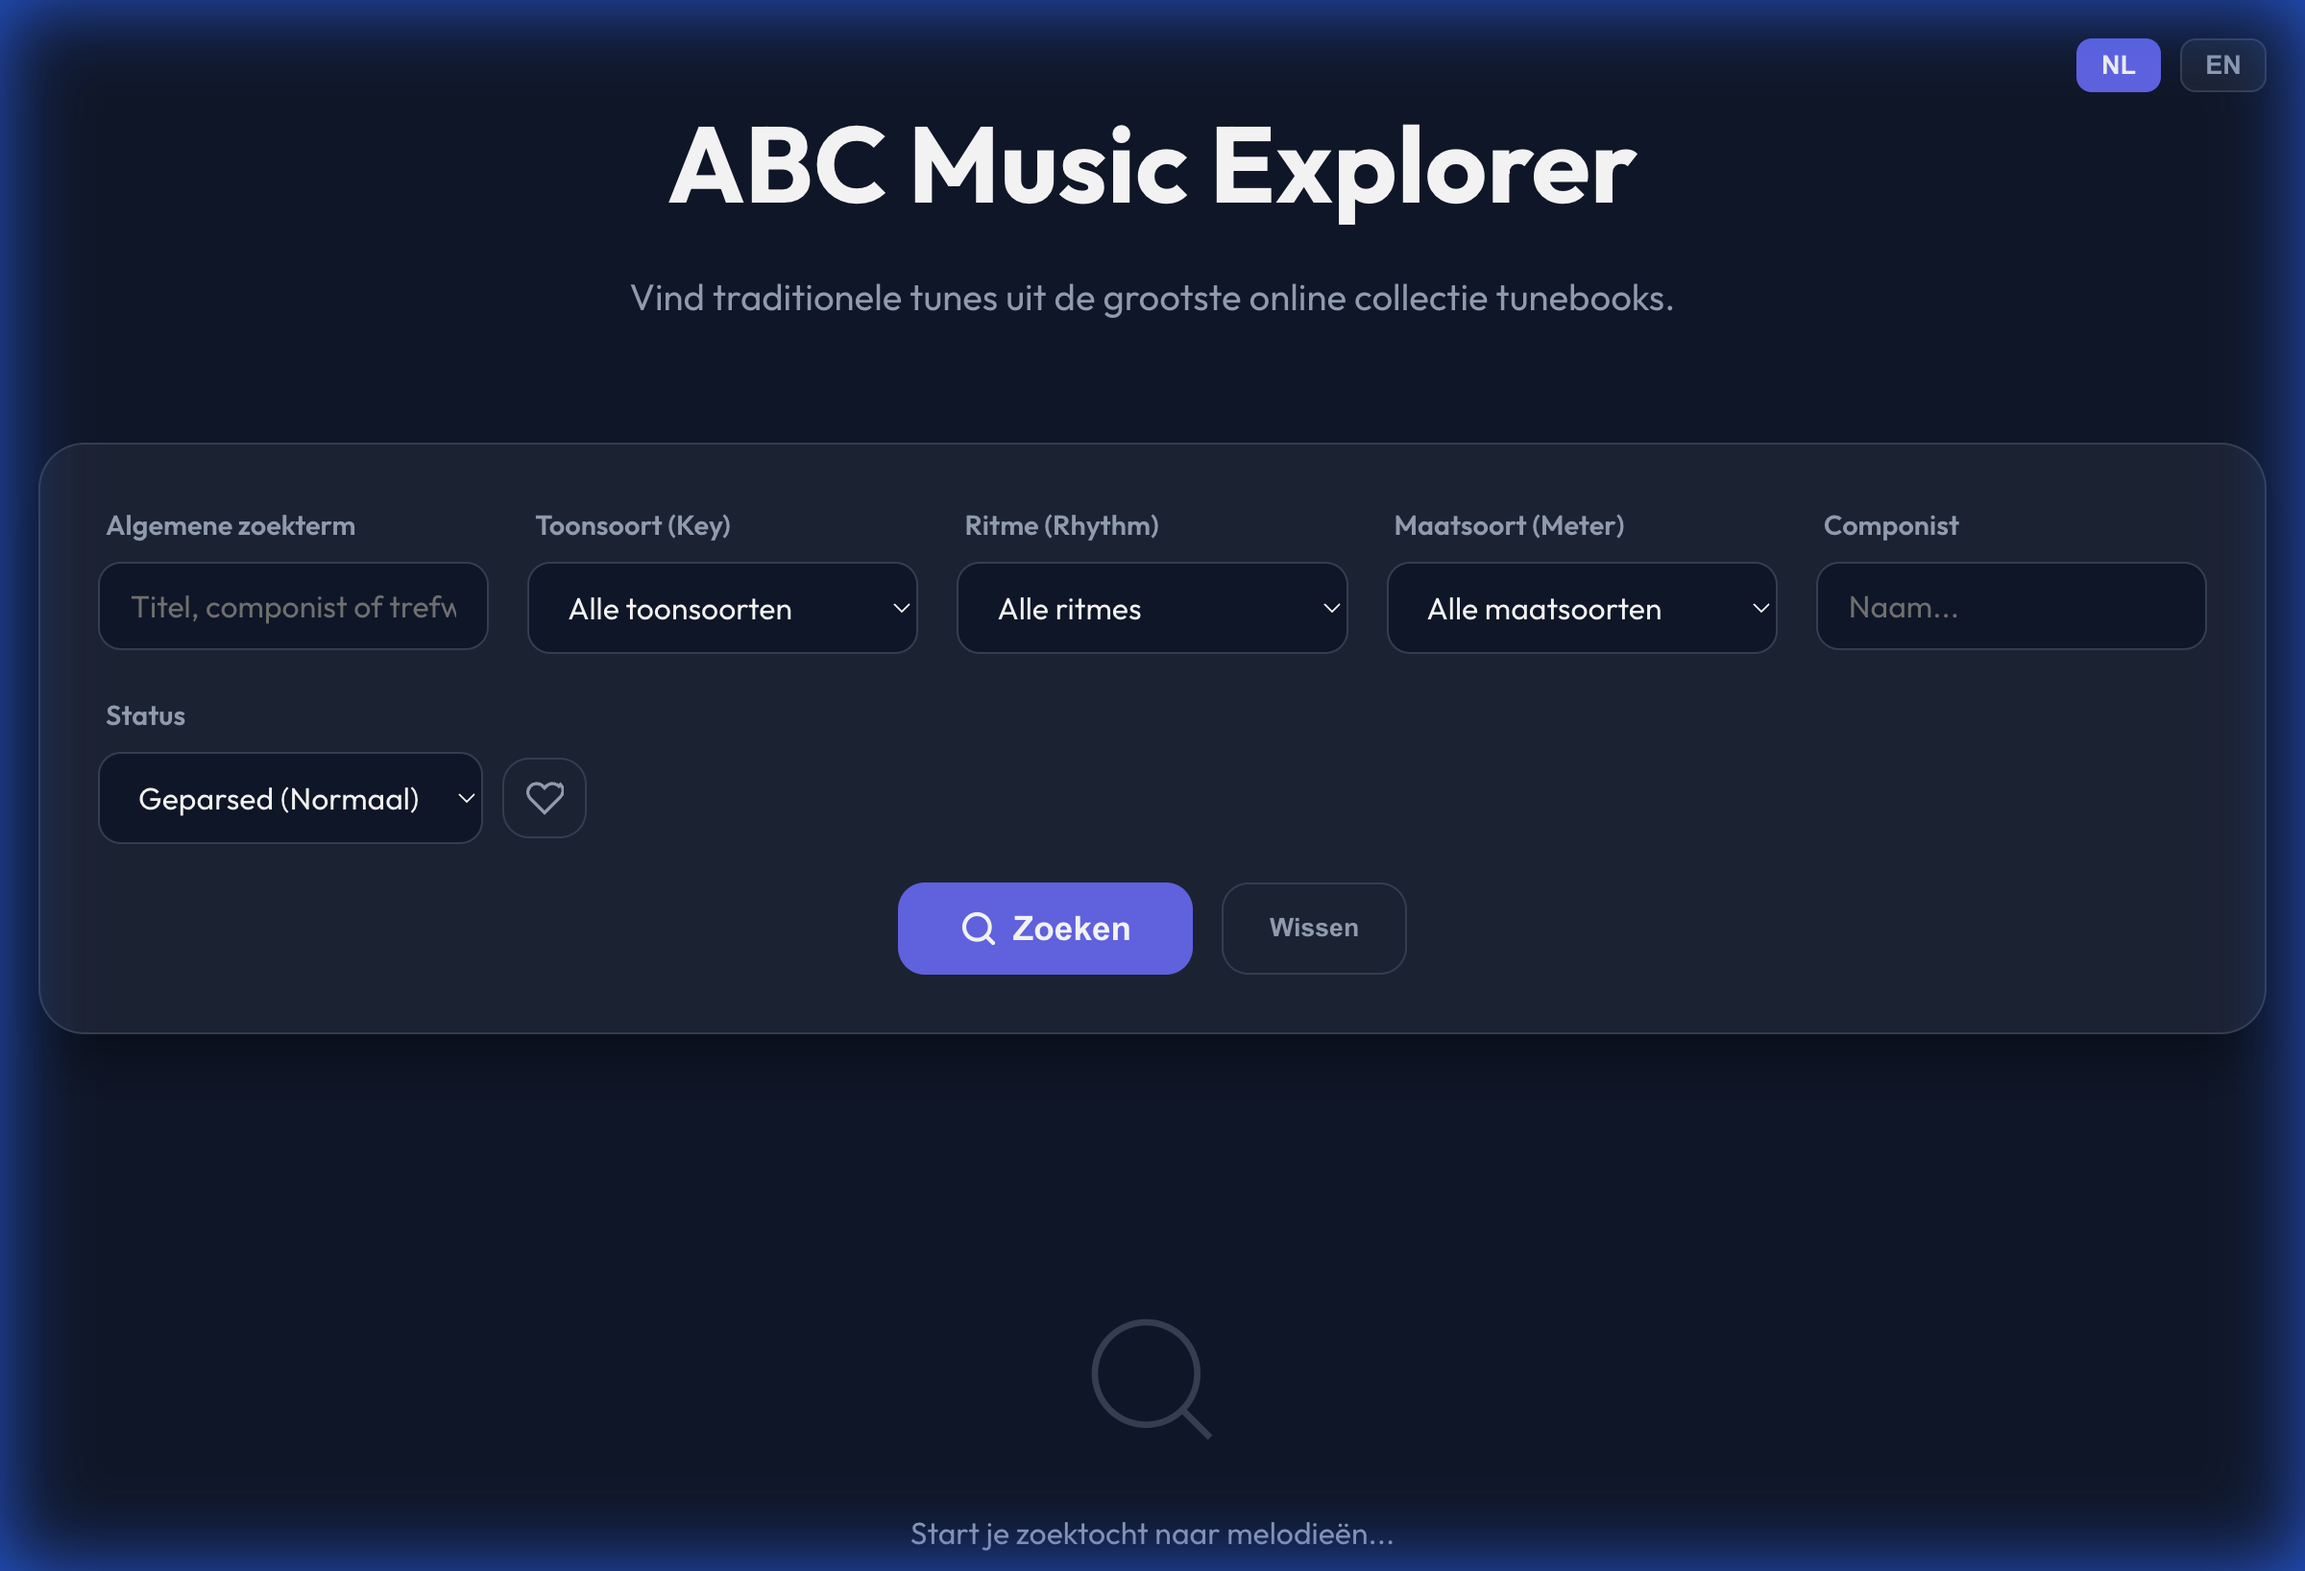
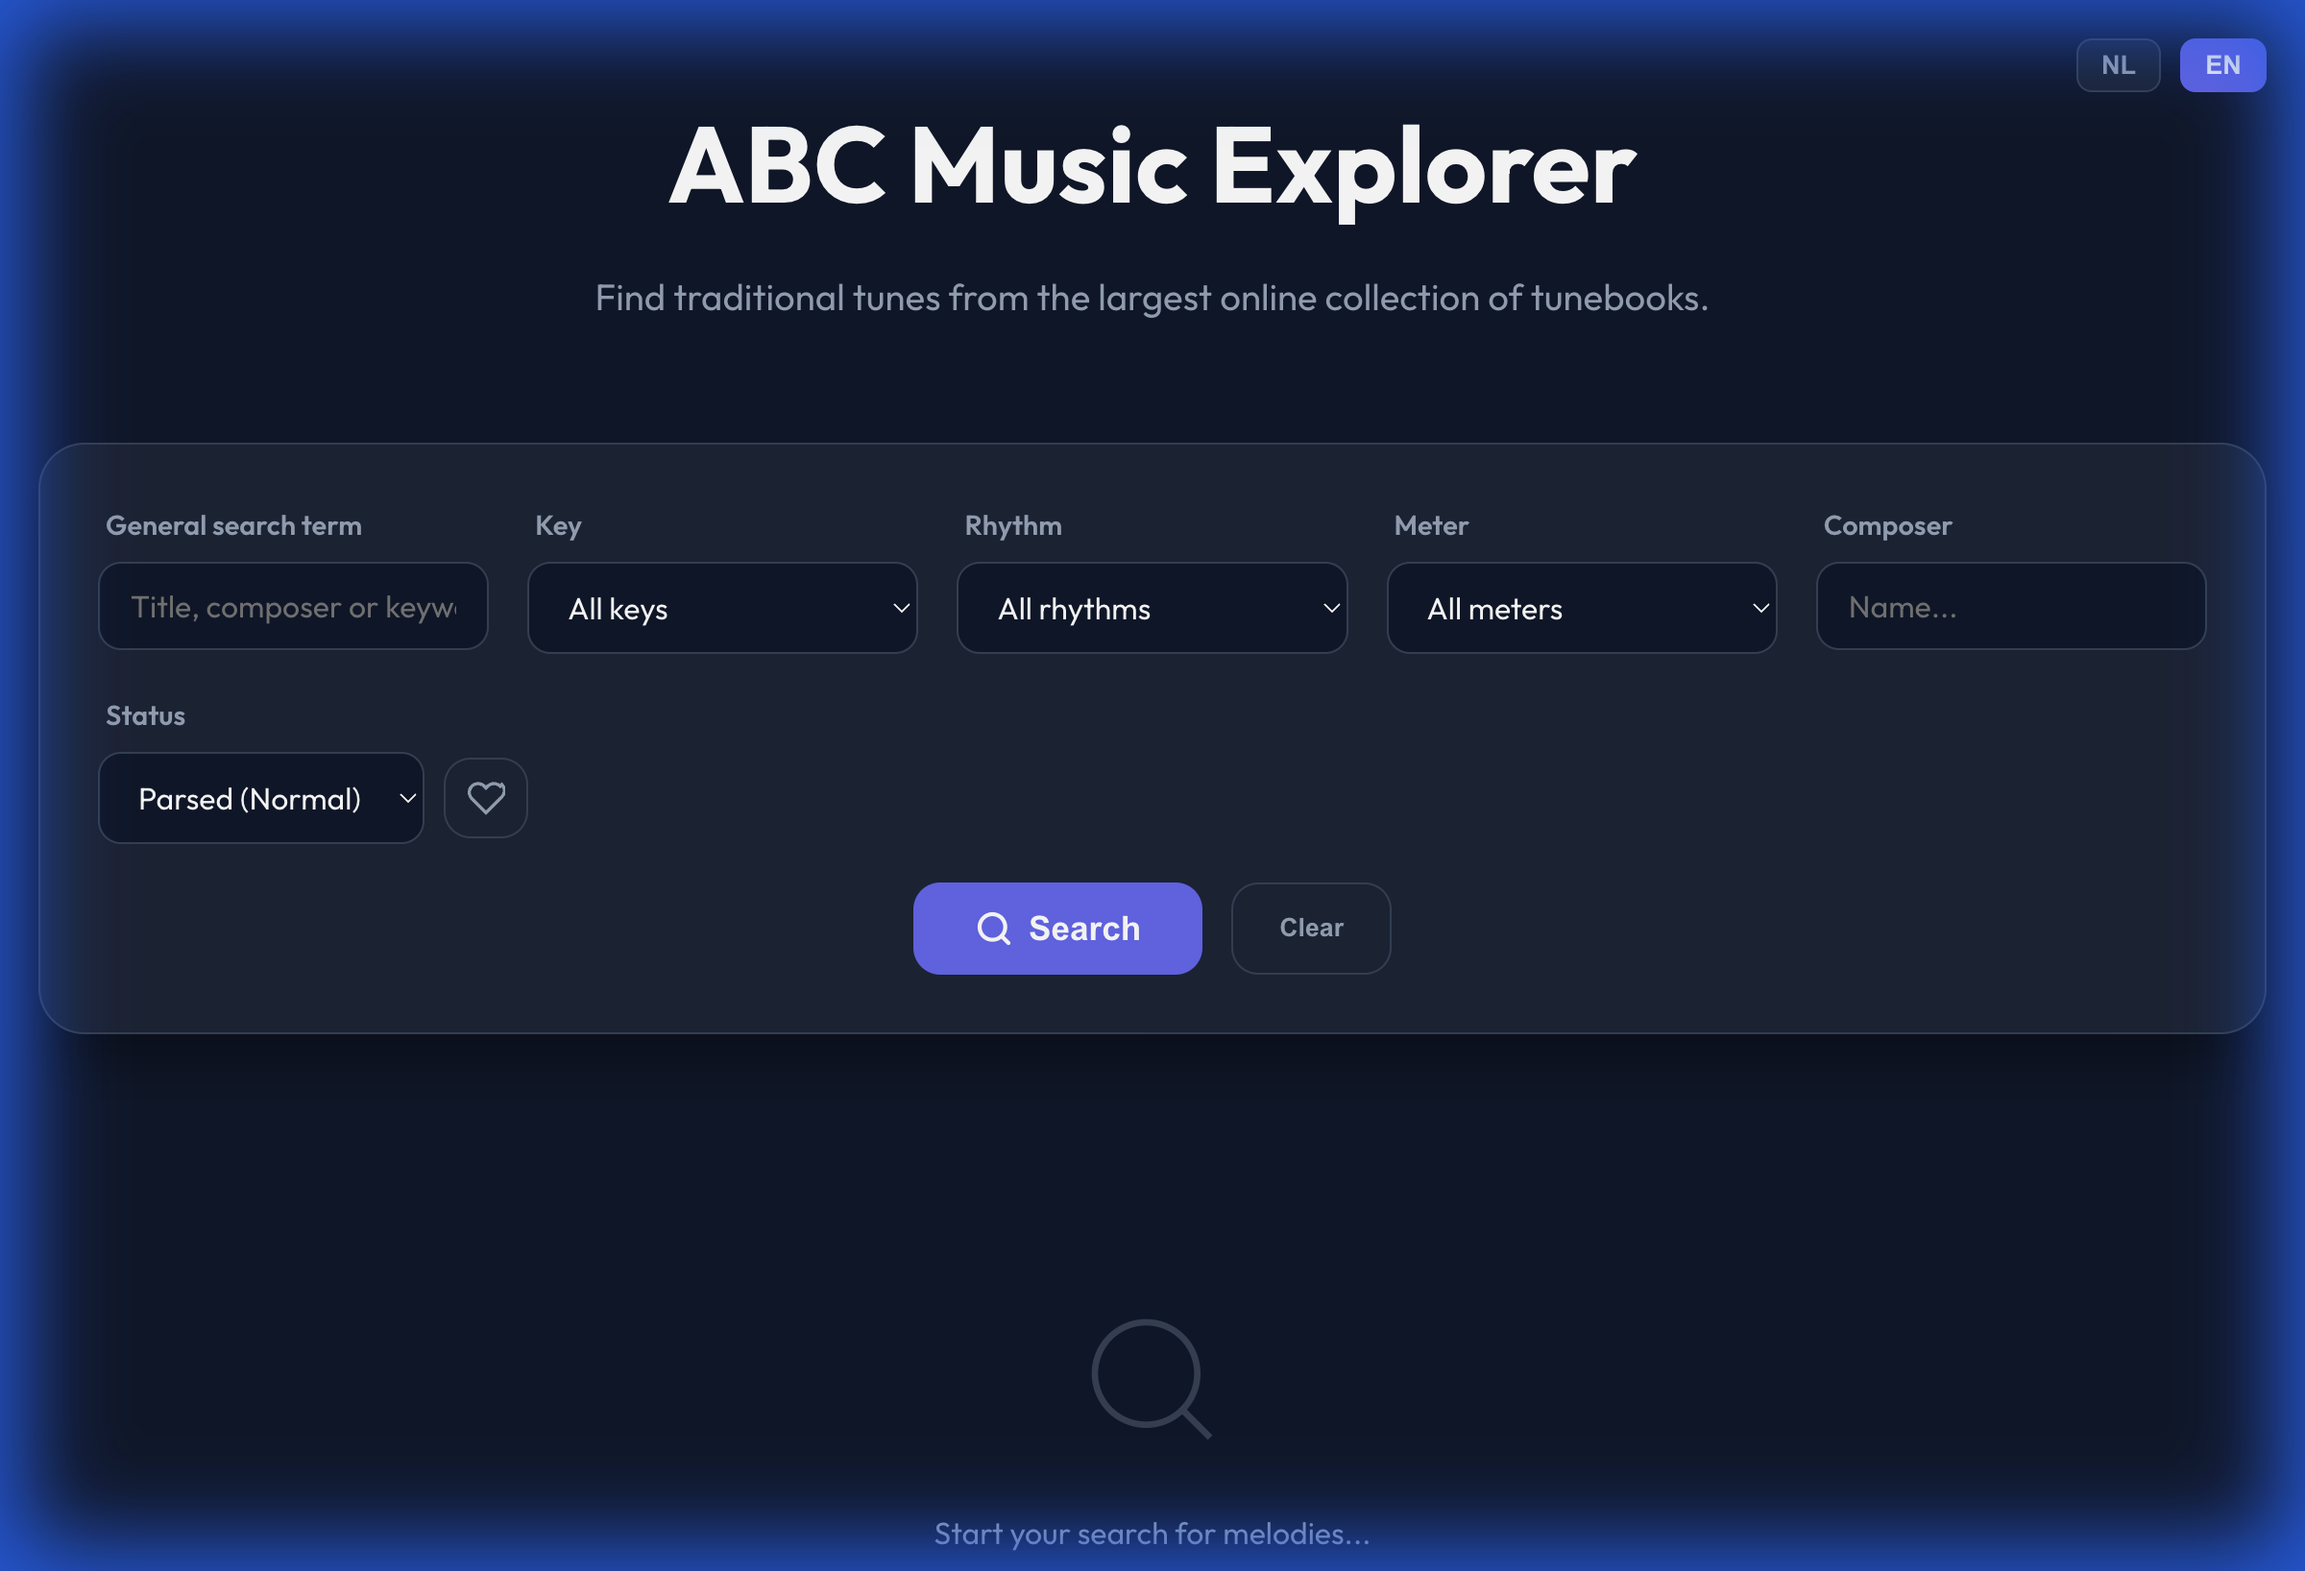
Replace screenshots with English versions and fix visibility using relative paths

diff --git a/README_nl.md b/README_nl.md
@@ -1,6 +1,6 @@
 # Web Crawler & ABC Music Search System
 
-*[English version here](file:///Users/mark/Documents/Python/Cursor%20AI/ABC/README.md)*
+*[English version here](README.md)*
 
 Een geavanceerd multi-process web crawler systeem gebouwd in Python, gespecializeerd in het vinden, indexeren en doorzoeken van ABC muziek nota's.
 
@@ -191,7 +191,7 @@ make start
     - **Nieuw**: Individuele log-files per worker proces zijn direct in de UI te bekijken.
     - De interface ververst elke 3 seconden voor een vlot resultaat zonder de database te overbelasten.
 - **ABC Tune Explorer (`http://localhost:5501`)**: De premium zoek-interface voor eindgebruikers.
-    ![ABC Tune Explorer](file:///Users/mark/Documents/Python/Cursor%20AI/ABC/screenshots/abc_tune_explorer.png)
+    ![ABC Tune Explorer](screenshots/abc_tune_explorer.png)
     - **Nieuw**: Meertalige ondersteuning (Nederlands en Engels) via de taalschakelaar rechtsboven.
     - **Nieuw**: Favorieten-systeem: Markeer je favoriete tunes met het hart-icoon en filter de resultatenlijst om alleen je opgeslagen melodieën te zien.
     - **Nieuw**: Zoek op Tune ID (bijv. `77277`).
@@ -219,7 +219,7 @@ De resultaten verschijnen direct onder de zoekbalk in een responsive grid. Elke 
 
 ### 2. Melodie Detailvenster
 
-![Tune Detail View](file:///Users/mark/Documents/Python/Cursor%20AI/ABC/screenshots/tune_detail_view.png)
+![Tune Detail View](screenshots/tune_detail_view.png)
 
 Dit is het hart van de applicatie, waar je de muziek kunt lezen, horen en analyseren.
 
@@ -250,7 +250,7 @@ Deze geavanceerde functie helpt je varianten en gerelateerde tunes te ontdekken.
 
 ### 3. Systeembeheer (Management Dashboard)
 
-![Management Dashboard](file:///Users/mark/Documents/Python/Cursor%20AI/ABC/screenshots/management_dashboard.png)
+![Management Dashboard](screenshots/management_dashboard.png)
 
 Bereikbaar via `http://localhost:5500`. Dit paneel is voor beheerders en power-users.
 

diff --git a/README.md b/README.md
@@ -1,6 +1,6 @@
 # Web Crawler & ABC Music Search System
 
-*[Nederlandse versie hier](file:///Users/mark/Documents/Python/Cursor%20AI/ABC/README_nl.md)*
+*[Nederlandse versie hier](README_nl.md)*
 
 An advanced multi-process web crawler system built in Python, specialized in finding, indexing, and searching ABC music notation.
 
@@ -178,7 +178,7 @@ make start
     - **New**: Real-time log streaming for individual worker processes directly in the UI.
     - **New**: Statuses in the queue now track all the way to "indexed", providing full end-to-end visibility.
 - **ABC Tune Explorer (`http://localhost:5501`)**: Premium search interface for end-users.
-    ![ABC Tune Explorer](file:///Users/mark/Documents/Python/Cursor%20AI/ABC/screenshots/abc_tune_explorer.png)
+    ![ABC Tune Explorer](screenshots/abc_tune_explorer.png)
     - **New**: Multi-language support (English and Dutch) via the language switcher.
     - **New**: Favorites system: Mark tunes with a heart icon and filter the results to see only your saved melodies.
     - **New**: Search by Tune ID (e.g., `77277`).
@@ -206,7 +206,7 @@ Results appear immediately below the search bar in a responsive grid. Each card 
 
 ### 2. Melody Detail View
 
-![Tune Detail View](file:///Users/mark/Documents/Python/Cursor%20AI/ABC/screenshots/tune_detail_view.png)
+![Tune Detail View](screenshots/tune_detail_view.png)
 
 This is the heart of the application, where you can read, hear, and analyze the music.
 
@@ -237,7 +237,7 @@ This advanced feature helps you discover variations and related tunes.
 
 ### 3. System Management (Management Dashboard)
 
-![Management Dashboard](file:///Users/mark/Documents/Python/Cursor%20AI/ABC/screenshots/management_dashboard.png)
+![Management Dashboard](screenshots/management_dashboard.png)
 
 Accessible via `http://localhost:5500`. This panel is for administrators and power-users.
 
